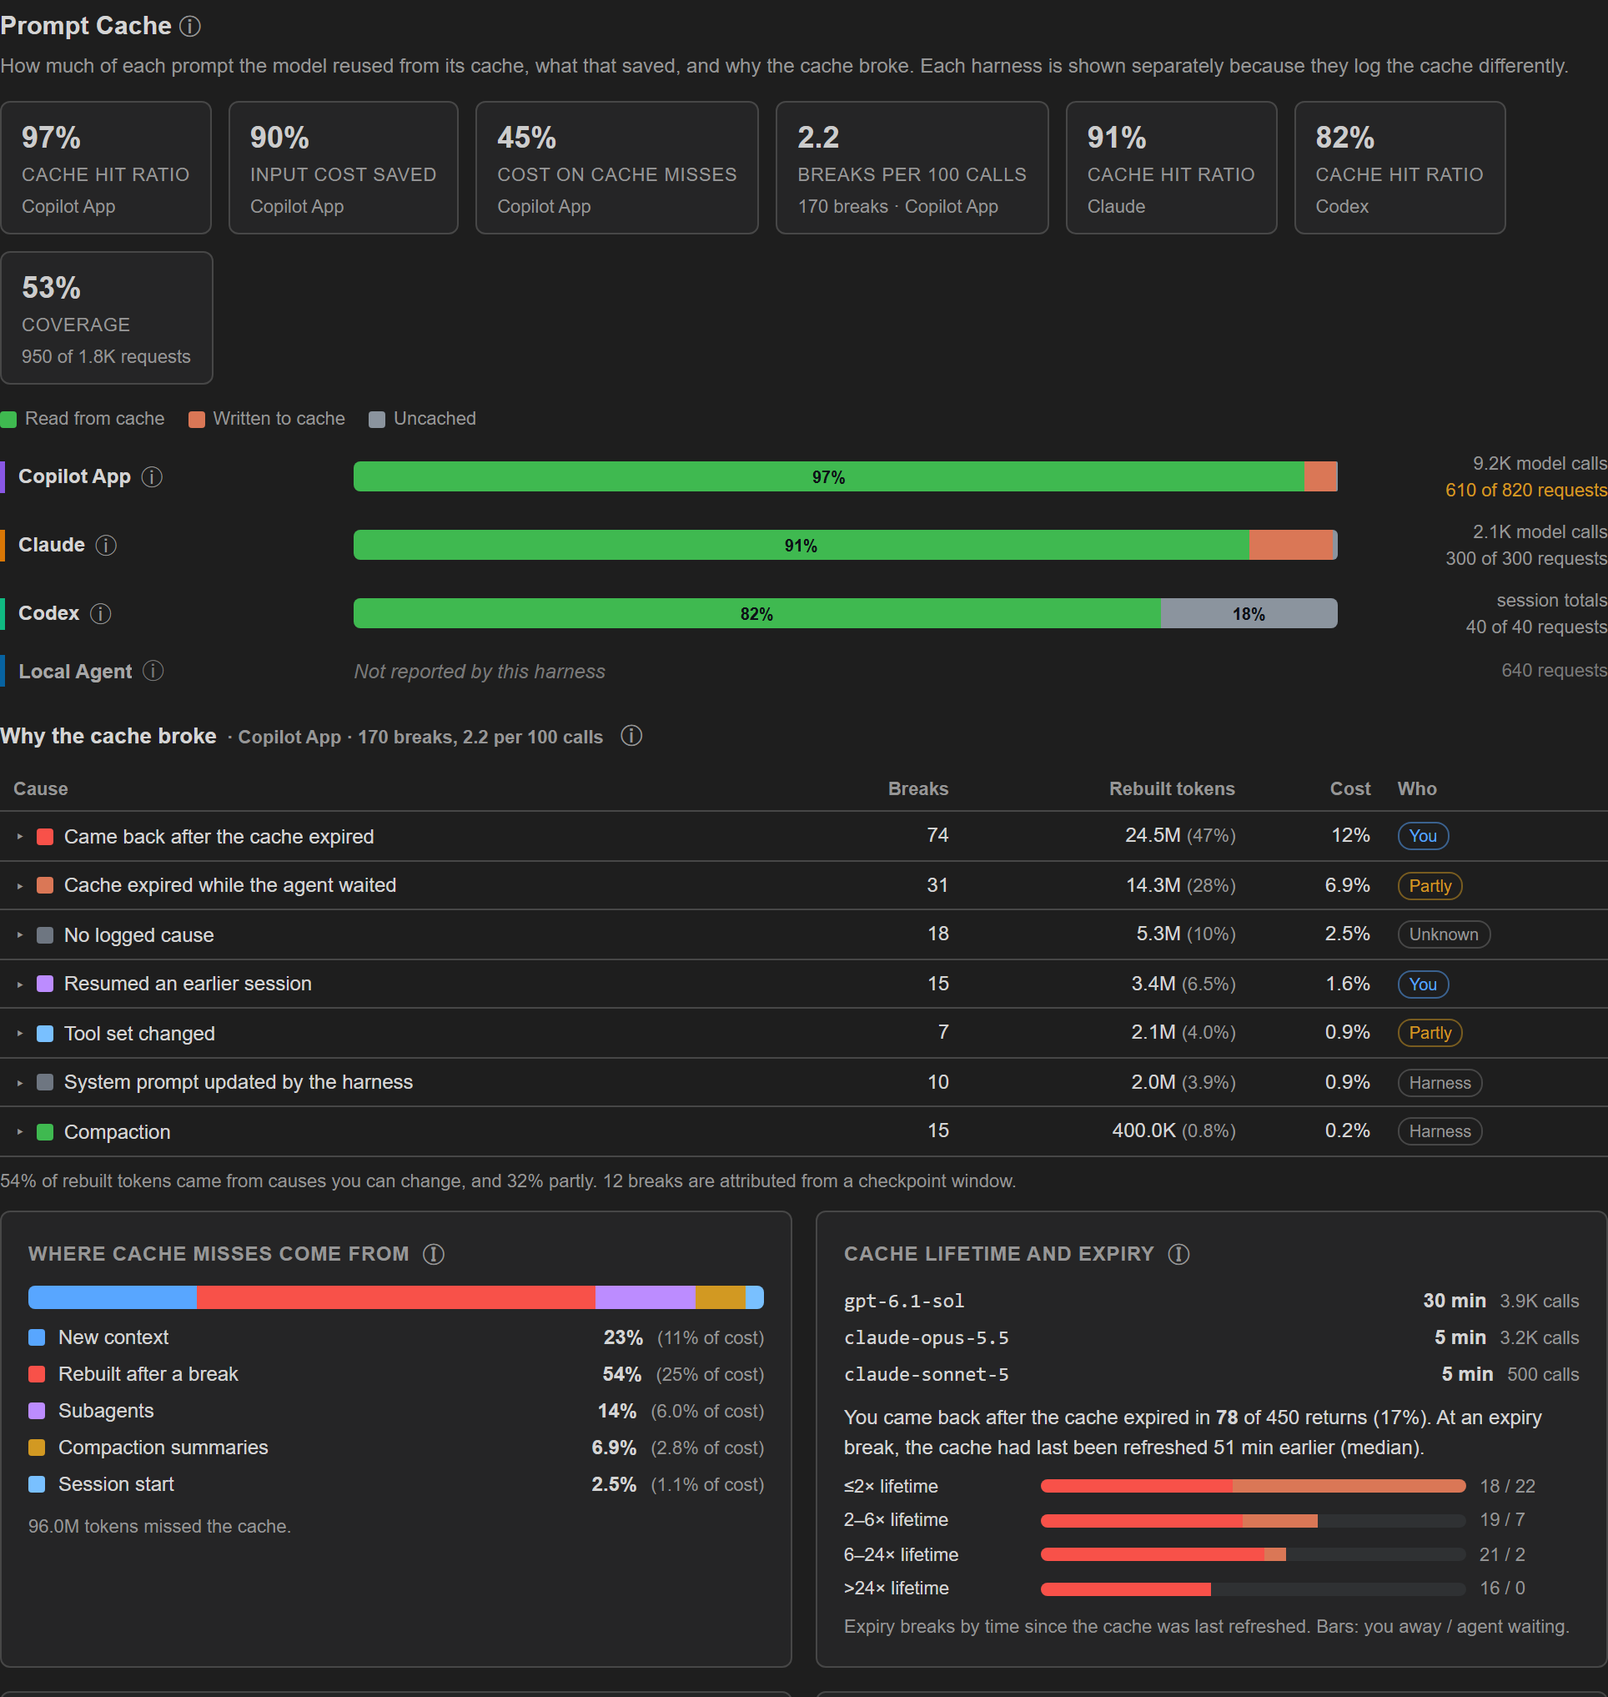
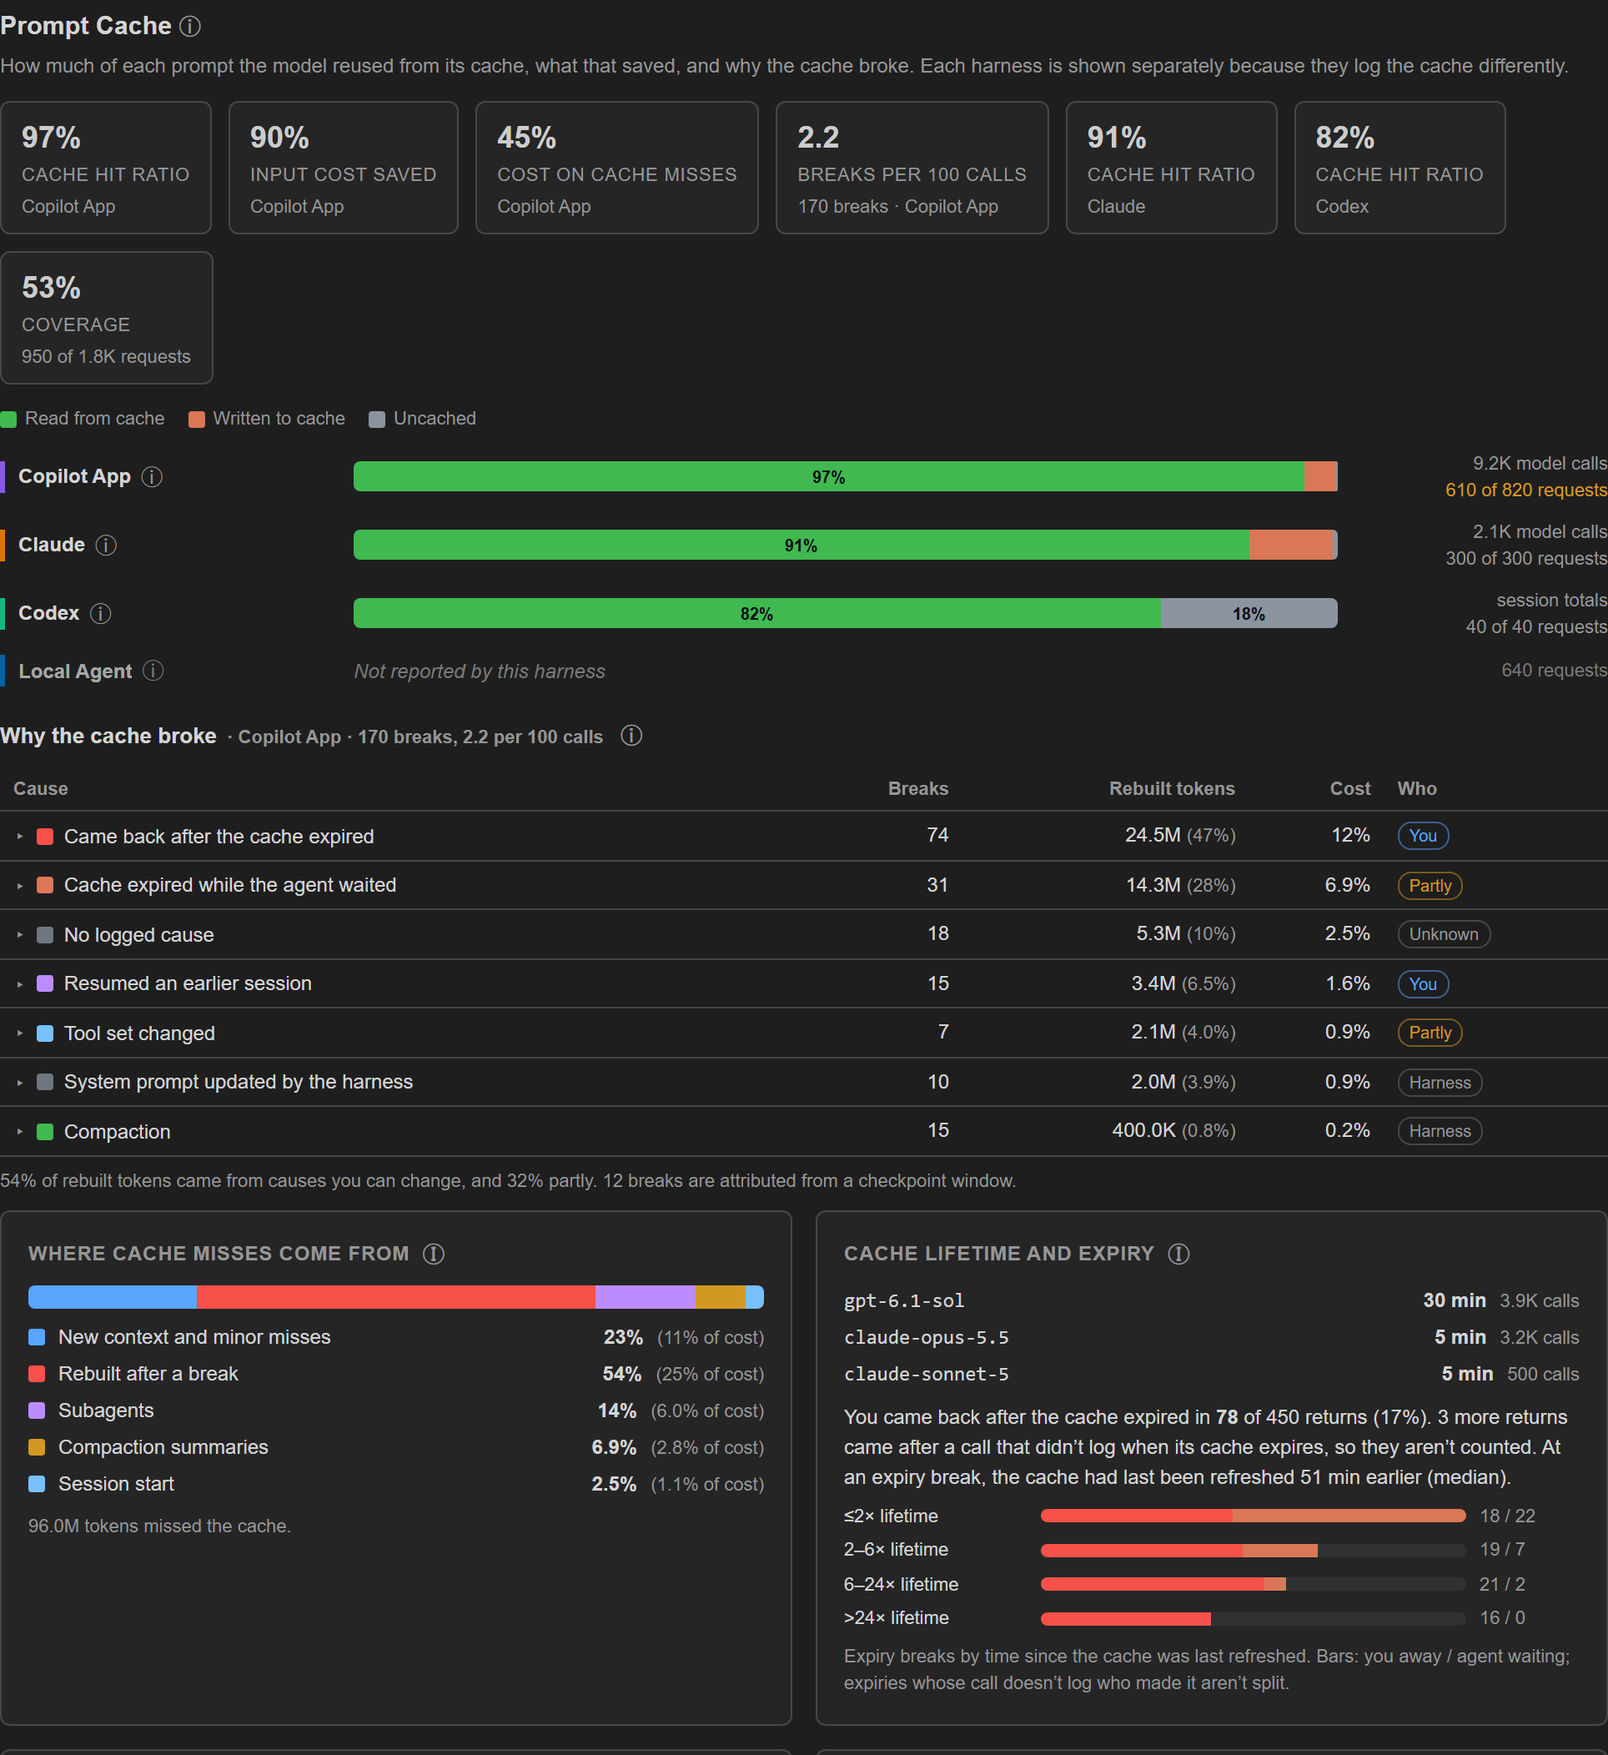
fix: address the summary items of Copilot's review of acb9d06
The review had no inline threads; its summary listed four items in code it hadn't flagged before:
- Copilot CLI and Copilot App calls take the reasoning effort from the model id (for example
  claude-opus-4.7-high) when the record doesn't log it. The model name drops that suffix, so a
  high -> low switch went unattributed; it now counts as a reasoning-effort change.
- The remaining cache-miss origin is "New context and minor misses": besides new context it holds
  cached context re-sent in amounts below the break threshold. The MCP summary and the analyze
  report call it new-context-and-minor-misses.
- A failed load of a Context Health sub-tab the user has already left no longer replaces the page
  with an error. A failure of the selected tab still does.
- With no breaks in range, the tab says that no call crossed the break threshold, instead of
  claiming that every call reused the cache.

The cache shape doesn't change, so CACHE_VERSION stays 26.

diff --git a/src/webview/prompt-cache-view.test.ts b/src/webview/prompt-cache-view.test.ts
@@ -1,0 +1,67 @@
+/*---------------------------------------------------------------------------------------------
+ *  Copyright (c) Microsoft Corporation. All rights reserved.
+ *  Licensed under the MIT License. See LICENSE in the project root for license information.
+ *--------------------------------------------------------------------------------------------*/
+
+/**
+ * @vitest-environment jsdom
+ */
+
+import { describe, expect, it, vi } from 'vitest';
+import type { CacheAttribution, CacheIdleSummary } from '../core/types';
+import { renderAttribution } from './prompt-cache-view';
+import { render } from './render';
+
+vi.mock('./shared', () => ({
+  createChart: vi.fn(),
+  destroyChartById: vi.fn(),
+  formatNum: (n: number) => String(n),
+  harnessColor: () => '#888888',
+  COLORS: new Proxy({}, { get: () => '#888888' }),
+}));
+
+const NO_RETURNS: CacheIdleSummary = { ttlByModel: [], returns: 0, expiredReturns: 0, unmeasuredReturns: 0, buckets: [], medianIdleMinutes: null };
+
+/** 40 main-agent calls on 19K-token prompts that read nothing from the cache: below the break threshold. */
+function attribution(extra: Partial<CacheAttribution> = {}): CacheAttribution {
+  return {
+    label: 'Copilot App',
+    harnesses: ['GitHub Copilot App'],
+    mainCalls: 40,
+    breaks: 0,
+    breaksPer100: 0,
+    omittedBreaks: 0,
+    rebuiltTokens: 0,
+    causes: [],
+    confidence: { logged: 0, checkpoint: 0, unattributed: 0 },
+    controlPct: { you: 0, partly: 0, harness: 0, unknown: 0 },
+    misses: 760_000,
+    origins: [{ origin: 'growth', tokens: 760_000, pct: 100, costPct: null }],
+    idle: NO_RETURNS,
+    ...extra,
+  };
+}
+
+function textOf(a: CacheAttribution): string {
+  const host = document.createElement('div');
+  render(renderAttribution(a), host);
+  return host.textContent ?? '';
+}
+
+describe('renderAttribution', () => {
+  it('says no call crossed the break threshold rather than that every call reused the cache', () => {
+    const text = textOf(attribution());
+    expect(text).toContain('No cache breaks in this range: no main-agent call re-sent at least 30% (and 10K tokens) of a previous prompt of 20K tokens or more.');
+    expect(text).not.toContain('reused the previous call');
+  });
+
+  it('labels the remaining cache misses as new context and minor misses', () => {
+    expect(textOf(attribution())).toContain('New context and minor misses');
+  });
+
+  it('says expiry can’t be measured when no return followed a call that logged it', () => {
+    const text = textOf(attribution({ idle: { ...NO_RETURNS, unmeasuredReturns: 2 } }));
+    expect(text).toContain('2 returns came after a call that didn’t log when its cache expires, so expiry can’t be measured.');
+    expect(text).not.toContain('No returns to an earlier call');
+  });
+});

diff --git a/src/core/cli-model-calls.ts b/src/core/cli-model-calls.ts
@@ -8,6 +8,7 @@
  * timeline, the prompt-cache tracker). Add new per-call fields here rather than walking the records again.
  * Only numbers, enum values and the model id are kept; ids, hashes and content are ignored. */
 
+import { extractReasoningEffortFromModelId } from './helpers';
 import type { RelativeRates } from './prompt-cache-usage';
 import { cacheModelName } from './prompt-cache-usage';
 
@@ -105,6 +106,18 @@ function initiatorOf(value: unknown): CliModelCall['initiator'] {
   return value === 'agent' || value === 'sub-agent' ? 'agent' : null;
 }
 
+/** The model id as logged, or the session's model when the record has none. */
+function rawModelId(usage: Record<string, unknown>, fallbackModel: string): string {
+  return typeof usage.model === 'string' && usage.model ? usage.model : fallbackModel;
+}
+
+/** The logged reasoning effort, or the effort some model ids carry as a suffix (`claude-opus-4.7-high`), which
+ *  the model name drops. */
+function reasoningEffortOf(usage: Record<string, unknown>, fallbackModel: string): string | null {
+  if (typeof usage.reasoningEffort === 'string' && usage.reasoningEffort) return usage.reasoningEffort;
+  return extractReasoningEffortFromModelId(rawModelId(usage, fallbackModel));
+}
+
 /** Read one `session.usage_record`. Returns `null` when the record has no positive prompt-token count. */
 export function readCliModelCall(data: Record<string, unknown>, timestamp: number | null, fallbackModel: string): CliModelCall | null {
   const usage = isRecord(data.usage) ? data.usage : undefined;
@@ -125,10 +138,10 @@ export function readCliModelCall(data: Record<string, unknown>, timestamp: numbe
     durationMs,
     startTs: timestamp == null ? null : timestamp - (durationMs ?? 0),
     stream: isMainAgentCall(usage) ? 'main' : 'subagent',
-    model: cacheModelName(typeof usage.model === 'string' && usage.model ? usage.model : fallbackModel),
+    model: cacheModelName(rawModelId(usage, fallbackModel)),
     initiator: initiatorOf(usage.initiator),
     autoModel: usage.isAuto === true,
-    reasoningEffort: typeof usage.reasoningEffort === 'string' && usage.reasoningEffort ? usage.reasoningEffort : null,
+    reasoningEffort: reasoningEffortOf(usage, fallbackModel),
     inputTokens,
     cacheReadTokens: read,
     cacheWriteTokens: write,

diff --git a/tests/e2e/prompt-cache.spec.ts b/tests/e2e/prompt-cache.spec.ts
@@ -228,4 +228,23 @@ test.describe('Context Health sub-tabs with late responses', () => {
     const loads = await page.evaluate(() => (window as unknown as { promptCacheRequests: { method: string }[] }).promptCacheRequests.filter(r => r.method === 'getPromptCache').length);
     expect(loads).toBe(1);
   });
+
+  test('drops a late Context Quality failure instead of replacing Prompt Cache with an error', async ({ page }) => {
+    await openWithSlow(page, 'getConfigHealth');
+    await page.evaluate(() => { (window as unknown as { mockErrorMethods: string[] }).mockErrorMethods = ['getConfigHealth']; });
+    await page.locator('[data-page="config-health"]').first().click();
+    await page.locator('[data-tab="prompt-cache"]').click();
+    await expect(page.locator('#ctxPromptCache')).toBeVisible();
+    // Context Quality's load fails meanwhile; the failure belongs to a render the user has left.
+    await page.waitForTimeout(1_500);
+    await expect(page.locator('#ctxPromptCache')).toBeVisible();
+    await expect(page.locator('#content .error-boundary')).toHaveCount(0);
+  });
+
+  test('still shows the error when the selected tab fails to load', async ({ page }) => {
+    await openWithSlow(page, 'getConfigHealth');
+    await page.evaluate(() => { (window as unknown as { mockErrorMethods: string[] }).mockErrorMethods = ['getConfigHealth']; });
+    await page.locator('[data-page="config-health"]').first().click();
+    await expect(page.locator('#content .error-boundary')).toContainText('mock getConfigHealth failure');
+  });
 });

diff --git a/src/core/cli-model-calls.test.ts b/src/core/cli-model-calls.test.ts
@@ -45,6 +45,15 @@ describe('readCliModelCall', () => {
     expect(readCliModelCall(usage({ inputTokens: 5_000 }), LOGGED_AT, 'fallback')).toMatchObject({ inputTokens: 120_000, cacheReadTokens: 100_000, cacheWriteTokens: 15_000 });
     expect(readCliModelCall(usage({ inputTokens: 0 }), LOGGED_AT, 'fallback')).toBeNull();
   });
+
+  it('reads the reasoning effort from the model id when the record doesn’t log it', () => {
+    // The model name drops the effort suffix, so without this a high → low switch would look like no change.
+    expect(readCliModelCall(usage({ model: 'copilot/claude-opus-4.7-high' }), LOGGED_AT, 'fallback')).toMatchObject({ model: 'claude-opus-4.7', reasoningEffort: 'high' });
+    expect(readCliModelCall(usage({ model: undefined }), LOGGED_AT, 'claude-opus-4.7-low')).toMatchObject({ model: 'claude-opus-4.7', reasoningEffort: 'low' });
+    // A logged effort wins, and a model id without a suffix leaves it unknown.
+    expect(readCliModelCall(usage({ model: 'copilot/claude-opus-4.7-high', reasoningEffort: 'medium' }), LOGGED_AT, 'fallback')).toMatchObject({ reasoningEffort: 'medium' });
+    expect(readCliModelCall(usage(), LOGGED_AT, 'fallback')).toMatchObject({ model: 'claude-opus-5.5', reasoningEffort: null });
+  });
 });
 
 /** `copilotUsage` whose token details price each token type per token (cost per batch ÷ batch size). */

diff --git a/src/core/prompt-cache-report.ts b/src/core/prompt-cache-report.ts
@@ -10,6 +10,7 @@
 import type { CacheAttribution, PromptCacheData, Session } from './types';
 import { AnalyzerBase } from './analyzer-base';
 import { analyzePromptCache } from './analyzer-prompt-cache';
+import { exportedOriginName } from './prompt-cache-causes';
 import { toDateStr } from './helpers';
 
 const CONSOLE_METHODS = ['log', 'info', 'debug', 'warn', 'error'] as const;
@@ -61,7 +62,7 @@ function attributionLines(a: CacheAttribution): string[] {
     lines.push(`  ${c.key.padEnd(22)} ${String(c.breaks).padStart(4)} breaks  ${p(c.pctOfRebuilt).padStart(6)} of rebuilt  cost ${p(c.costPct)}  [${c.control}]${segments}`);
   }
   lines.push(`  misses ${m(a.misses)}:`);
-  for (const o of a.origins) lines.push(`    ${o.origin.padEnd(12)} ${p(o.pct).padStart(6)} of misses, ${p(o.costPct)} of input cost`);
+  for (const o of a.origins) lines.push(`    ${exportedOriginName(o.origin).padEnd(28)} ${p(o.pct).padStart(6)} of misses, ${p(o.costPct)} of input cost`);
   const idle = a.idle;
   lines.push(
     `  returns ${idle.returns} with a logged expiry, after expiry ${idle.expiredReturns}; ${idle.unmeasuredReturns} more without a logged expiry`,

diff --git a/src/mcp/formatters.ts b/src/mcp/formatters.ts
@@ -9,6 +9,7 @@
  * so the LLM can synthesize rather than parse.
  */
 
+import { exportedOriginName } from '../core/prompt-cache-causes';
 import type { Analyzer } from '../core/analyzer';
 import type { ContextCompositionData, DateFilter, PromptCacheData } from '../core/types';
 
@@ -506,7 +507,7 @@ export function formatPromptCache(data: PromptCacheData) {
       rebuiltYouCanChangePct: a.controlPct.you,
       rebuiltPartlyYoursPct: a.controlPct.partly,
       causes: a.causes.slice(0, 6).map(c => ({ cause: c.key, who: c.control, breaks: c.breaks, rebuiltPct: c.pctOfRebuilt, inputCostPct: c.costPct })),
-      cacheMissOrigins: a.origins.map(o => ({ origin: o.origin, pct: o.pct, inputCostPct: o.costPct })),
+      cacheMissOrigins: a.origins.map(o => ({ origin: exportedOriginName(o.origin), pct: o.pct, inputCostPct: o.costPct })),
       cacheLifetimes: a.idle.ttlByModel.map(t => ({ model: t.model, seconds: t.ttlSeconds })),
       returnsAfterExpiry: { expired: a.idle.expiredReturns, of: a.idle.returns, notMeasured: a.idle.unmeasuredReturns },
       medianMinutesSinceCacheRefreshAtExpiry: a.idle.medianIdleMinutes,

diff --git a/src/webview/prompt-cache-labels.ts b/src/webview/prompt-cache-labels.ts
@@ -104,7 +104,7 @@ export const CONTROL_META: Record<CacheControl, { label: string; help: string }>
 };
 
 export const ORIGIN_META: Record<CacheMissOrigin, { label: string; color: string; help: string }> = {
-  growth: { label: 'New context', color: COLORS.blue, help: 'Tokens added since the previous call, such as your prompts, replies and tool results. Expected.' },
+  growth: { label: 'New context and minor misses', color: COLORS.blue, help: 'Mostly tokens added since the previous call, such as your prompts, replies and tool results. It also holds cached context re-sent in amounts too small to count as a cache break.' },
   rebuilt: { label: 'Rebuilt after a break', color: COLORS.red, help: 'Context the cache had held but had to be sent again after the cache broke. See the causes for why.' },
   subagents: { label: 'Subagents', color: COLORS.purple, help: 'Subagents build their own context, separate from the main agent\u2019s cache.' },
   compaction: { label: 'Compaction summaries', color: COLORS.yellow, help: 'Model calls that wrote compaction summaries.' },

diff --git a/src/webview/prompt-cache-view.ts b/src/webview/prompt-cache-view.ts
@@ -151,7 +151,7 @@ function causesTable(a: CacheAttribution): ComponentChildren {
   if (a.causes.length === 0) {
     return a.breaks > 0
       ? html`<div class="ctx-comp-note" id="ctxCacheUnlisted">${unlistedNote(a)}</div>`
-      : html`<div class="ctx-comp-note">No cache breaks in this range: every main-agent call reused the previous call’s cache.</div>`;
+      : html`<div class="ctx-comp-note" id="ctxCacheNoBreaks">No cache breaks in this range: no main-agent call re-sent at least 30% (and 10K tokens) of a previous prompt of 20K tokens or more. Smaller misses don’t count as breaks, so the hit ratio shows how much was reused.</div>`;
   }
   return html`<table class="ctx-cache-table" aria-label="Why the cache broke">
     <thead><tr><th scope="col">Cause</th><th scope="col" class="num">Breaks</th><th scope="col" class="num">Rebuilt tokens</th><th scope="col" class="num" title="Share of input cost, from logged prices">Cost</th><th scope="col">Who</th></tr></thead>

diff --git a/src/core/prompt-cache-cli.test.ts b/src/core/prompt-cache-cli.test.ts
@@ -360,6 +360,17 @@ describe('Copilot CLI cache breaks from setting changes', () => {
     ]);
     expect(breaksOf(session).map(brk => brk.causes)).toEqual([['reasoning-effort'], ['tools-changed'], ['mode-change'], ['resume']]);
   });
+
+  it('attributes a reasoning-effort change carried only in the model id', () => {
+    const noEffort = { reasoningEffort: undefined };
+    const session = parse([
+      START,
+      user('u1', 0),
+      call(1, { input: 100_000, read: 0, model: 'copilot/claude-opus-4.7-high', extra: noEffort }),
+      call(10, { input: 101_000, read: 0, model: 'copilot/claude-opus-4.7-low', extra: noEffort }),
+    ]);
+    expect(breaksOf(session)).toEqual([expect.objectContaining({ model: 'claude-opus-4.7', causes: ['reasoning-effort'], confidence: 'logged' })]);
+  });
 });
 
 describe('Copilot CLI cache breaks from checkpoint windows', () => {

diff --git a/src/webview/page-config.ts b/src/webview/page-config.ts
@@ -212,7 +212,17 @@ export async function renderConfigHealth(container: HTMLElement, currentFilter: 
   // Show loading spinner while sub-tab data is fetched
   render(html`<div class="loading-spinner" style="margin:40px auto;"></div>`, contentEl);
 
-  await renderSubTab(contentEl, effectiveFilter, isCurrent);
+  await dropStaleFailure(renderSubTab(contentEl, effectiveFilter, isCurrent), isCurrent);
+}
+
+/** Only the current render's failure may replace the page with an error; once a newer render owns the page, an
+ *  older render's failure is dropped. */
+async function dropStaleFailure(task: Promise<void>, isCurrent: () => boolean): Promise<void> {
+  try {
+    await task;
+  } catch (error) {
+    if (isCurrent()) throw error;
+  }
 }
 
 /** Render the active sub-tab. Each sub-tab checks `isCurrent` before writing its response into the page. */

diff --git a/src/core/prompt-cache-causes.ts b/src/core/prompt-cache-causes.ts
@@ -15,6 +15,7 @@ import type {
   CacheControl,
   CacheIdleBucket,
   CacheIdleSummary,
+  CacheMissOrigin,
   CacheOriginSlice,
   RequestPromptCache,
 } from './types';
@@ -154,6 +155,12 @@ export function addRequestExtras(acc: OriginAcc, cache: RequestPromptCache): voi
 
 export function totalMisses(acc: OriginAcc): number {
   return missesOf(acc.main) + missesOf(acc.subagents) + missesOf(acc.compaction);
+}
+
+/** A miss origin's name outside the dashboard (MCP, reports). `growth` isn't only new context: it also holds
+ *  cached context re-sent in amounts below the break threshold. */
+export function exportedOriginName(origin: CacheMissOrigin): string {
+  return origin === 'growth' ? 'new-context-and-minor-misses' : origin;
 }
 
 /** Where tokens not read from the cache came from. Shares of misses and, with logged rates, of input cost. */

diff --git a/src/mcp/formatters.test.ts b/src/mcp/formatters.test.ts
@@ -37,6 +37,8 @@ describe('formatPromptCache', () => {
       cacheLifetimes: [{ model: 'claude-opus-5.5', seconds: 300 }],
       returnsAfterExpiry: { expired: 2, of: 5, notMeasured: 1 },
       medianMinutesSinceCacheRefreshAtExpiry: 60,
+      // The remainder isn't only new context: it also holds misses below the break threshold.
+      cacheMissOrigins: [{ origin: 'new-context-and-minor-misses', pct: 33.3 }, { origin: 'rebuilt', pct: 66.7 }],
     });
     const json = JSON.stringify(summary);
     expect(json).not.toContain('secret-session-id');
